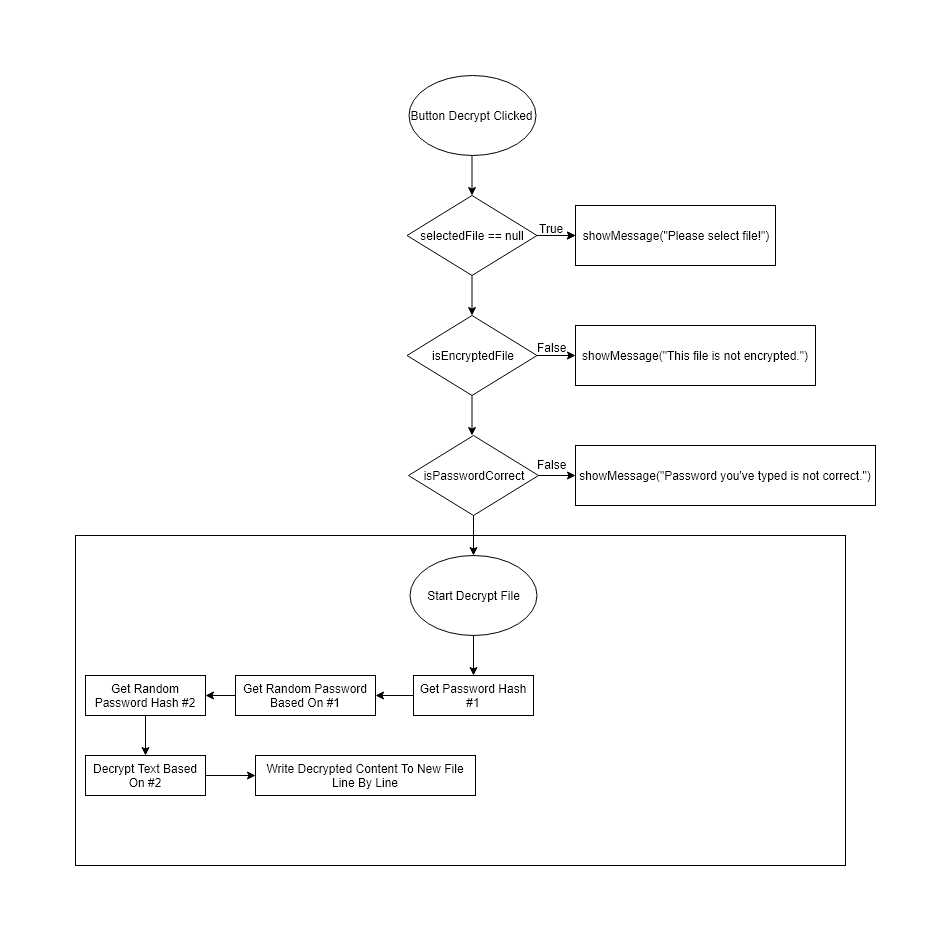
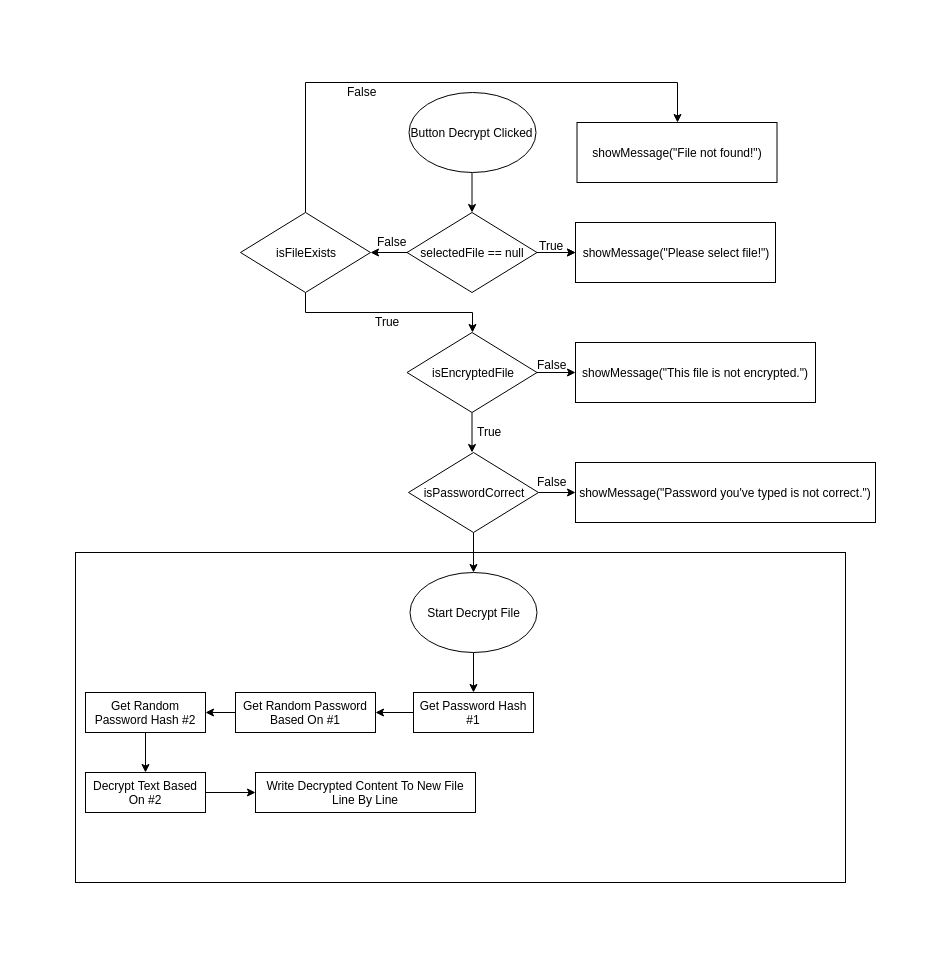
File Not Found Checked

diff --git a/src/com/friendlyhacker/MainApp.java b/src/com/friendlyhacker/MainApp.java
@@ -31,6 +31,7 @@ public class MainApp extends javax.swing.JFrame {
     private static String already_encrypted_label = "This file already encrypted!";
     private static String not_encrypted_file_label = "This file is not encrypted.";
     private static String wrong_password_label = "Password you've typed is not correct.";
+    private static String file_not_found_label = "File not found!";
     private static String about_label
             = "A simple text-file encryption tool written in Java.\n"
             + "Team: Friendly Hacker\n"
@@ -227,7 +228,9 @@ public class MainApp extends javax.swing.JFrame {
         if (selectedFile == null) {
             jLabelStatus.setText(please_select_file_label);
         } else {
-            if (is_encrypted_file(selectedFile)) {
+            if (!selectedFile.exists()){
+                jLabelStatus.setText(file_not_found_label);
+            }else if (is_encrypted_file(selectedFile)) {
                 jLabelStatus.setText(already_encrypted_label);
             } else {
                 jLabelStatus.setText(encrypting_label);
@@ -245,7 +248,9 @@ public class MainApp extends javax.swing.JFrame {
         if (selectedFile == null) {
             jLabelStatus.setText(please_select_file_label);
         } else {
-            if (!is_encrypted_file(selectedFile)) {
+            if (!selectedFile.exists()){
+                jLabelStatus.setText(file_not_found_label);
+            }else if (!is_encrypted_file(selectedFile)) {
                 jLabelStatus.setText(not_encrypted_file_label);
             } else {
                 if (!is_password_correct(
@@ -315,6 +320,7 @@ public class MainApp extends javax.swing.JFrame {
         already_encrypted_label = messages.getString("already_encrypted_label");
         not_encrypted_file_label = messages.getString("not_encrypted_file_label");
         wrong_password_label = messages.getString("wrong_password_label");
+        file_not_found_label = messages.getString("file_not_found_label");
         about_label = messages.getString("about_label");
     }
 
